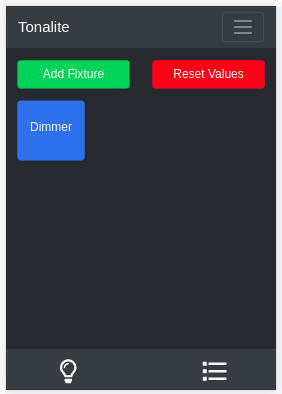
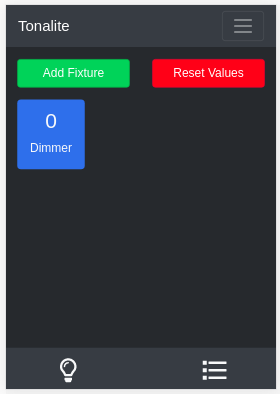
update images

diff --git a/static/css/style.min.css b/static/css/style.min.css
@@ -1,1 +1,1 @@
-.cueItem,.fixtureItem,.tab{width:100%;text-align:center}body{background-color:#212529;color:#F8F9FA}.cueItem,.fixtureItem{background-color:#228BE6;color:#F8F9FA;border-radius:5px;padding-top:1rem;padding-bottom:.35rem;margin-bottom:1rem}.fixtureItem:hover{background-color:#1971c2}.cueItem{background-color:#40C057}#cuesList,#fixturesList{margin-bottom:3rem}.tab{position:fixed;bottom:0;right:0;background:#343A40;font-size:2rem;padding-top:.45rem}.topBtns{margin-bottom:1rem;margin-top:1rem}.dark,.list-group-item{color:#343A40}.btn-success{background-color:#40c057}.btn-success:hover{background-color:#2f9e44}.btn-primary{background-color:#228be6}.btn-primary:hover{background-color:#1971c2}.btn-danger{background-color:#f03e3e}.btn-danger:hover{background-color:#c92a2a}.bg-light{background-color:#343A40!important}
+.cueItem,.fixtureItem,.tab{width:100%;text-align:center}body{background-color:#212529;color:#F8F9FA}.cueItem,.fixtureItem{background-color:#228BE6;color:#F8F9FA;border-radius:5px;padding-top:.75rem;padding-bottom:.01rem;margin-bottom:1rem}.fixtureItem:hover{background-color:#1971c2}.cueItem{background-color:#40C057}#cuesList,#fixturesList{margin-bottom:3rem}.tab{position:fixed;bottom:0;right:0;background:#343A40;font-size:2rem;padding-top:.45rem}.topBtns{margin-bottom:1rem;margin-top:1rem}.dark,.list-group-item{color:#343A40}.btn-success{background-color:#40c057}.btn-success:hover{background-color:#2f9e44}.btn-primary{background-color:#228be6}.btn-primary:hover{background-color:#1971c2}.btn-danger{background-color:#f03e3e}.btn-danger:hover{background-color:#c92a2a}.bg-light{background-color:#343A40!important}

diff --git a/static/css/style.css b/static/css/style.css
@@ -9,8 +9,8 @@ body {
     background-color: #228BE6;
     color: #F8F9FA;
     border-radius: 5px;
-    padding-top: 1rem;
-    padding-bottom: 0.35rem;
+    padding-top: 0.75rem;
+    padding-bottom: 0.01rem;
     margin-bottom: 1rem;
     text-align: center;
 }
